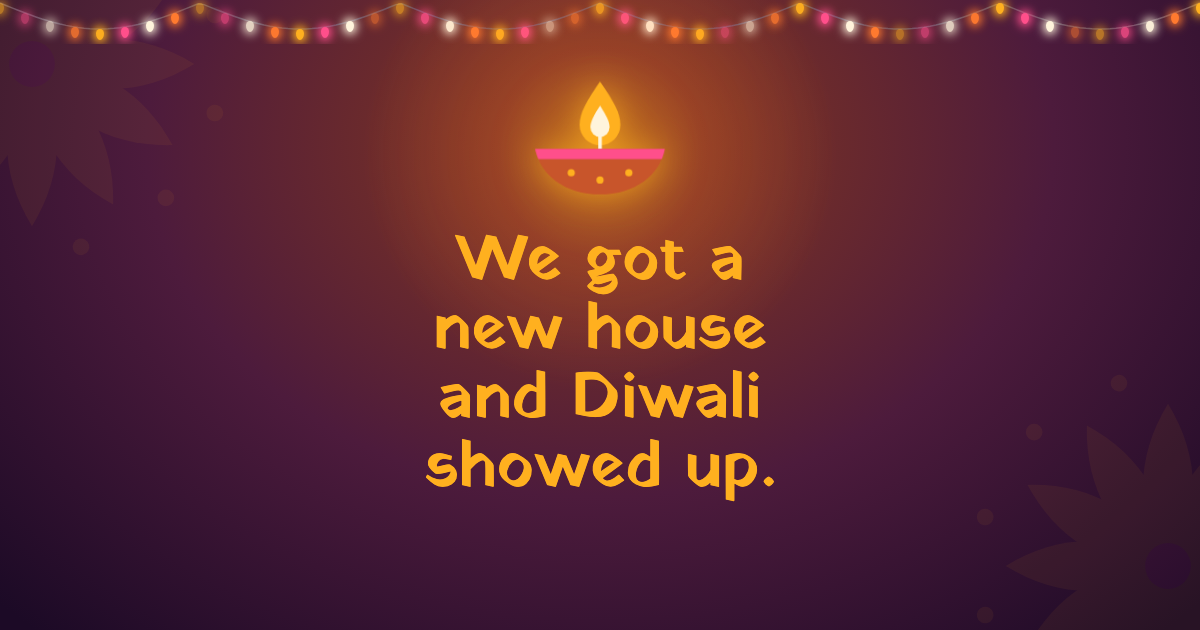
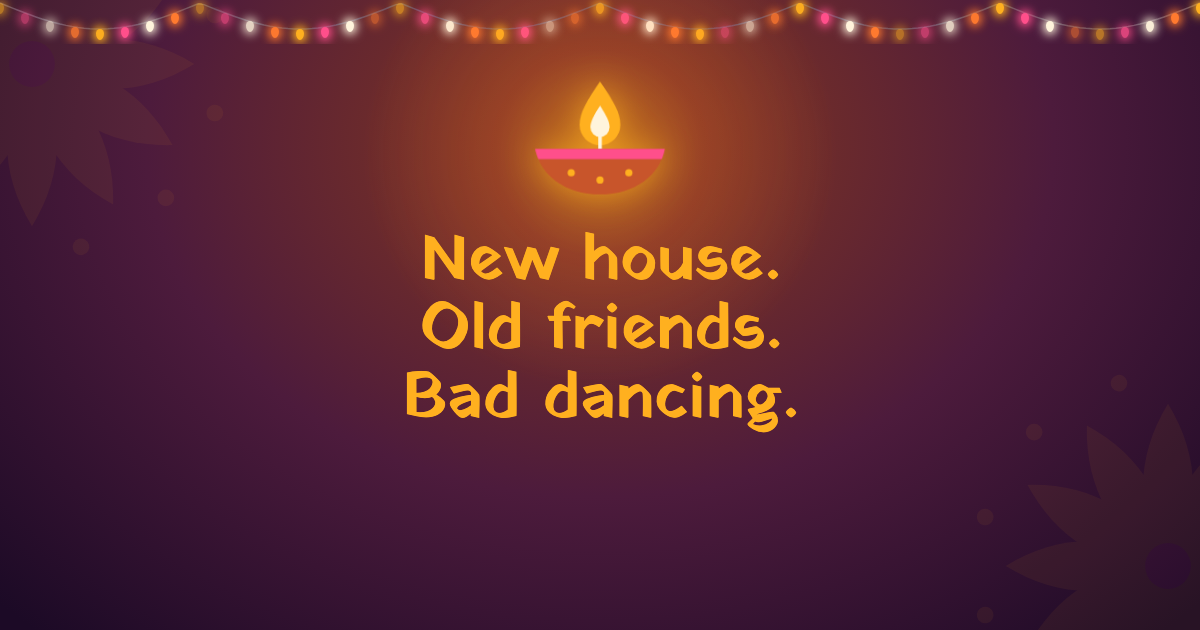
Change invite headline

Changed region(s): [[0.3392, 0.3619, 0.6783, 0.6937], [0.3392, 0.6937, 0.6475, 0.7841]]

diff --git a/index.html b/index.html
@@ -4,7 +4,7 @@
 <meta charset="utf-8">
 <meta name="viewport" content="width=device-width, initial-scale=1">
 <title>Housewarming + Diwali. You're invited.</title>
-<meta name="description" content="We got a new house and Diwali showed up. Tap the diya to open your invite.">
+<meta name="description" content="New house. Old friends. Bad dancing. Tap the diya to open your invite.">
 <meta name="robots" content="noindex, nofollow">
 <meta property="og:title" content="Housewarming + Diwali. You're invited.">
 <meta property="og:description" content="Friday, 6 November, 8 pm onwards. Tap the diya to open your invite.">
@@ -161,7 +161,7 @@
 </div>
 
 <main>
-  <h1 tabindex="-1">We got a new house and Diwali showed up.</h1>
+  <h1 tabindex="-1">New house. Old friends. Bad dancing.</h1>
   <p class="intro">Housewarming cum Diwali party. Food, drinks, music, dancing, games and lights. No aunty will ask about your salary or your marriage.</p>
   <p class="hosts">Hosted by Pranshu, Suvrat and Ayushi. Complaints go to the other two.</p>
   <p class="when" id="when">Friday, 6 November<br><span>8 pm onwards</span></p>
